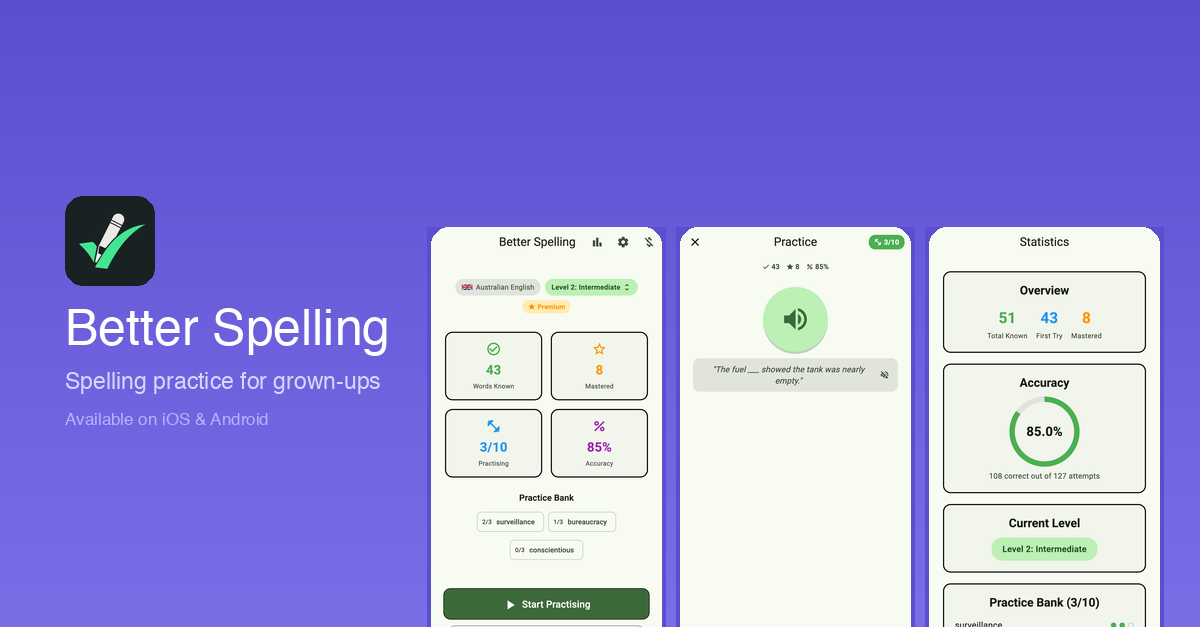
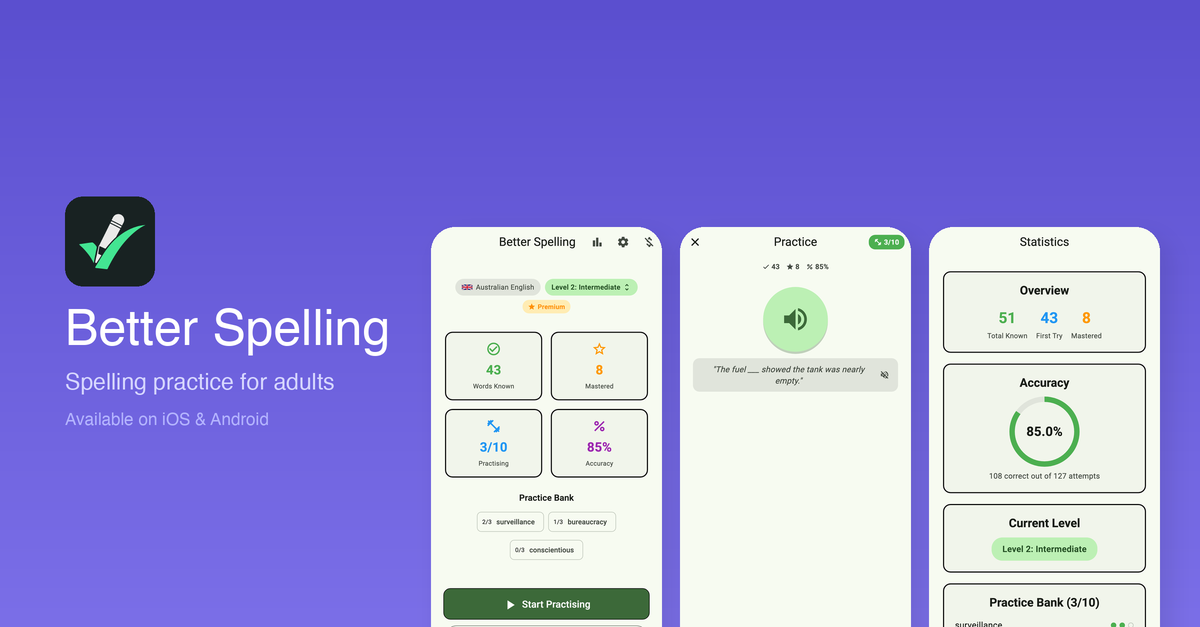
Update tagline to "adults" and regenerate OG image at higher quality
- Replace "grown-ups" with "adults" in hero and OG title
- Regenerate OG image at 2x with proper alpha compositing and soft shadows

diff --git a/index.html b/index.html
@@ -5,7 +5,7 @@
   <meta name="viewport" content="width=device-width, initial-scale=1.0">
   <title>Better Spelling — Improve Your Spelling Skills</title>
   <meta name="description" content="Better Spelling helps adults master spelling through adaptive, non-stop practice. Available on iOS and Android.">
-  <meta property="og:title" content="Better Spelling — Spelling Practice for Grown-Ups">
+  <meta property="og:title" content="Better Spelling — Spelling Practice for Adults">
   <meta property="og:description" content="Adaptive, non-stop spelling practice that finds your weak spots. Five difficulty levels, spaced repetition, and support for US, British & Australian English.">
   <meta property="og:image" content="https://benkaiser.github.io/better-spelling/images/og-image.png">
   <meta property="og:url" content="https://benkaiser.github.io/better-spelling/">
@@ -145,7 +145,7 @@
 
 <!-- HERO -->
 <section class="hero">
-  <h1>Spelling practice for <span>grown-ups</span></h1>
+  <h1>Spelling practice for <span>adults</span></h1>
   <p>Adaptive, non-stop practice that finds your weak spots and turns them into strengths. No quizzes, no fluff — just you and the words.</p>
   <div class="store-badges" id="download">
     <a href="https://apps.apple.com/us/app/better-spelling-for-adults/id6762339953"><img src="https://developer.apple.com/assets/elements/badges/download-on-the-app-store.svg" alt="Download on the App Store"></a>
